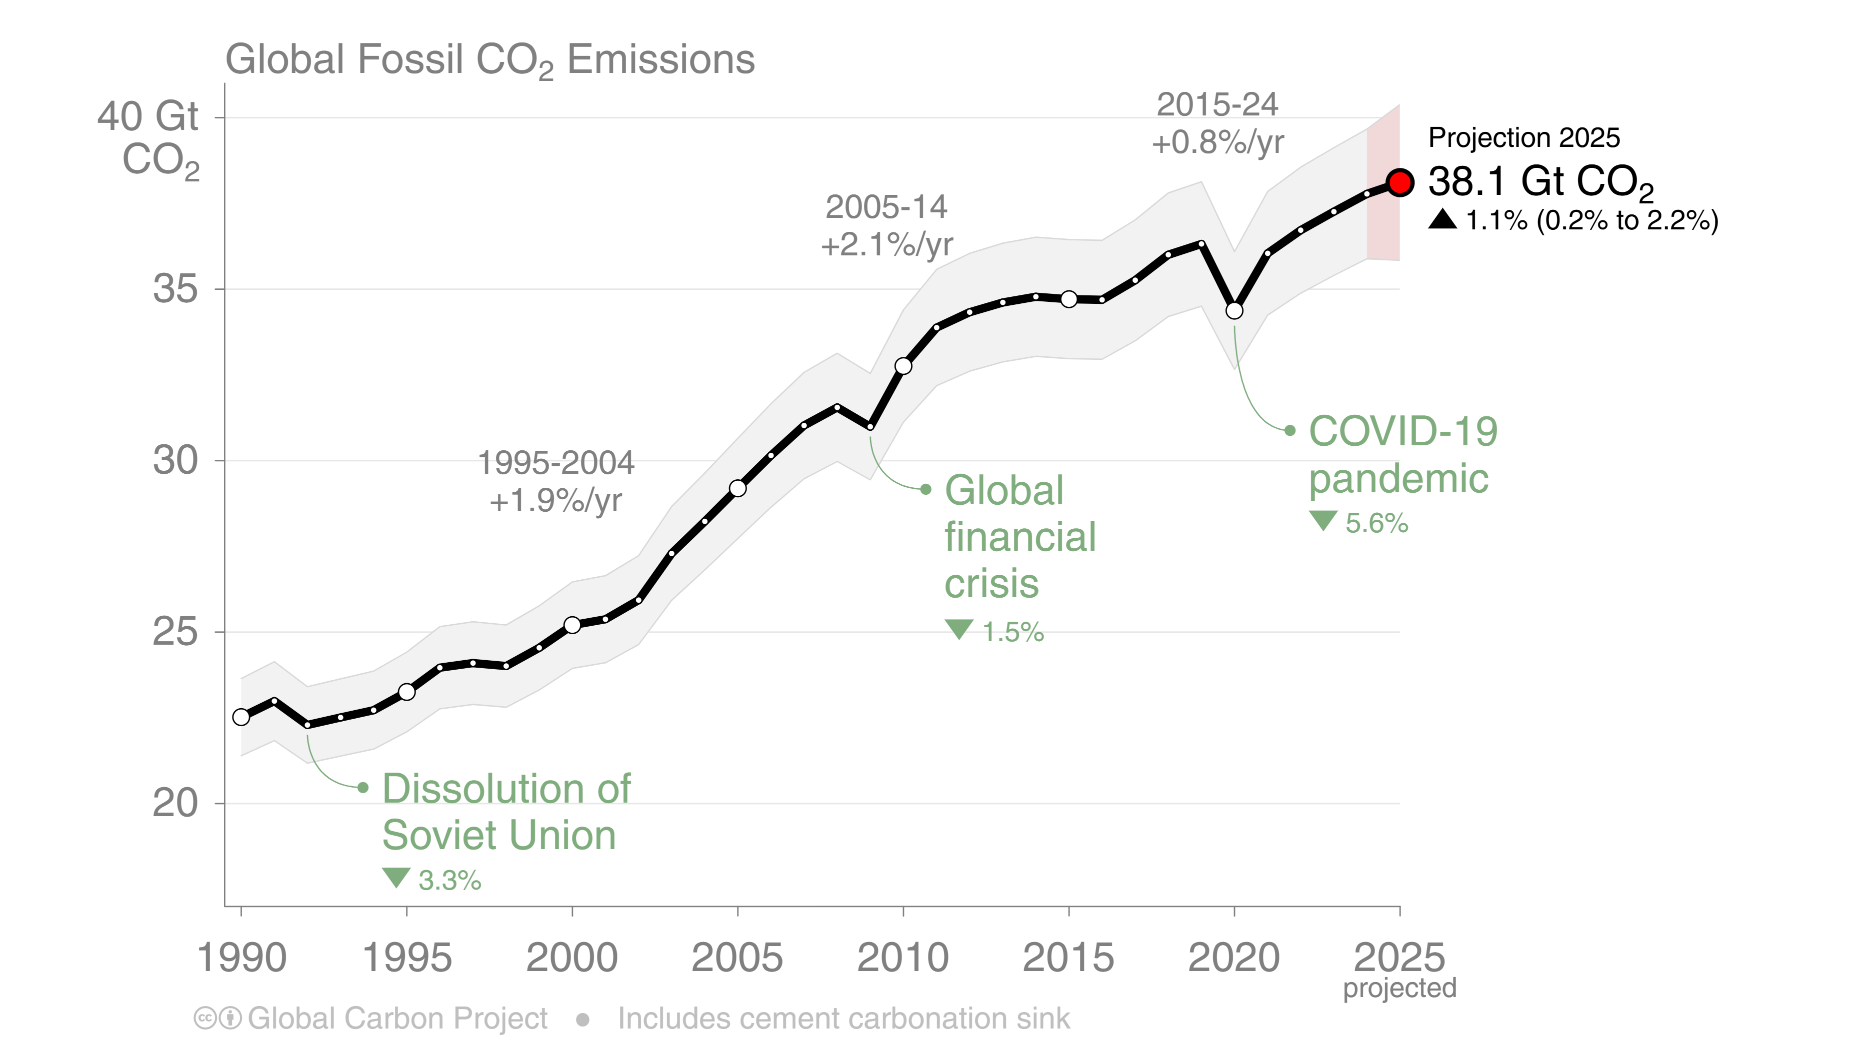
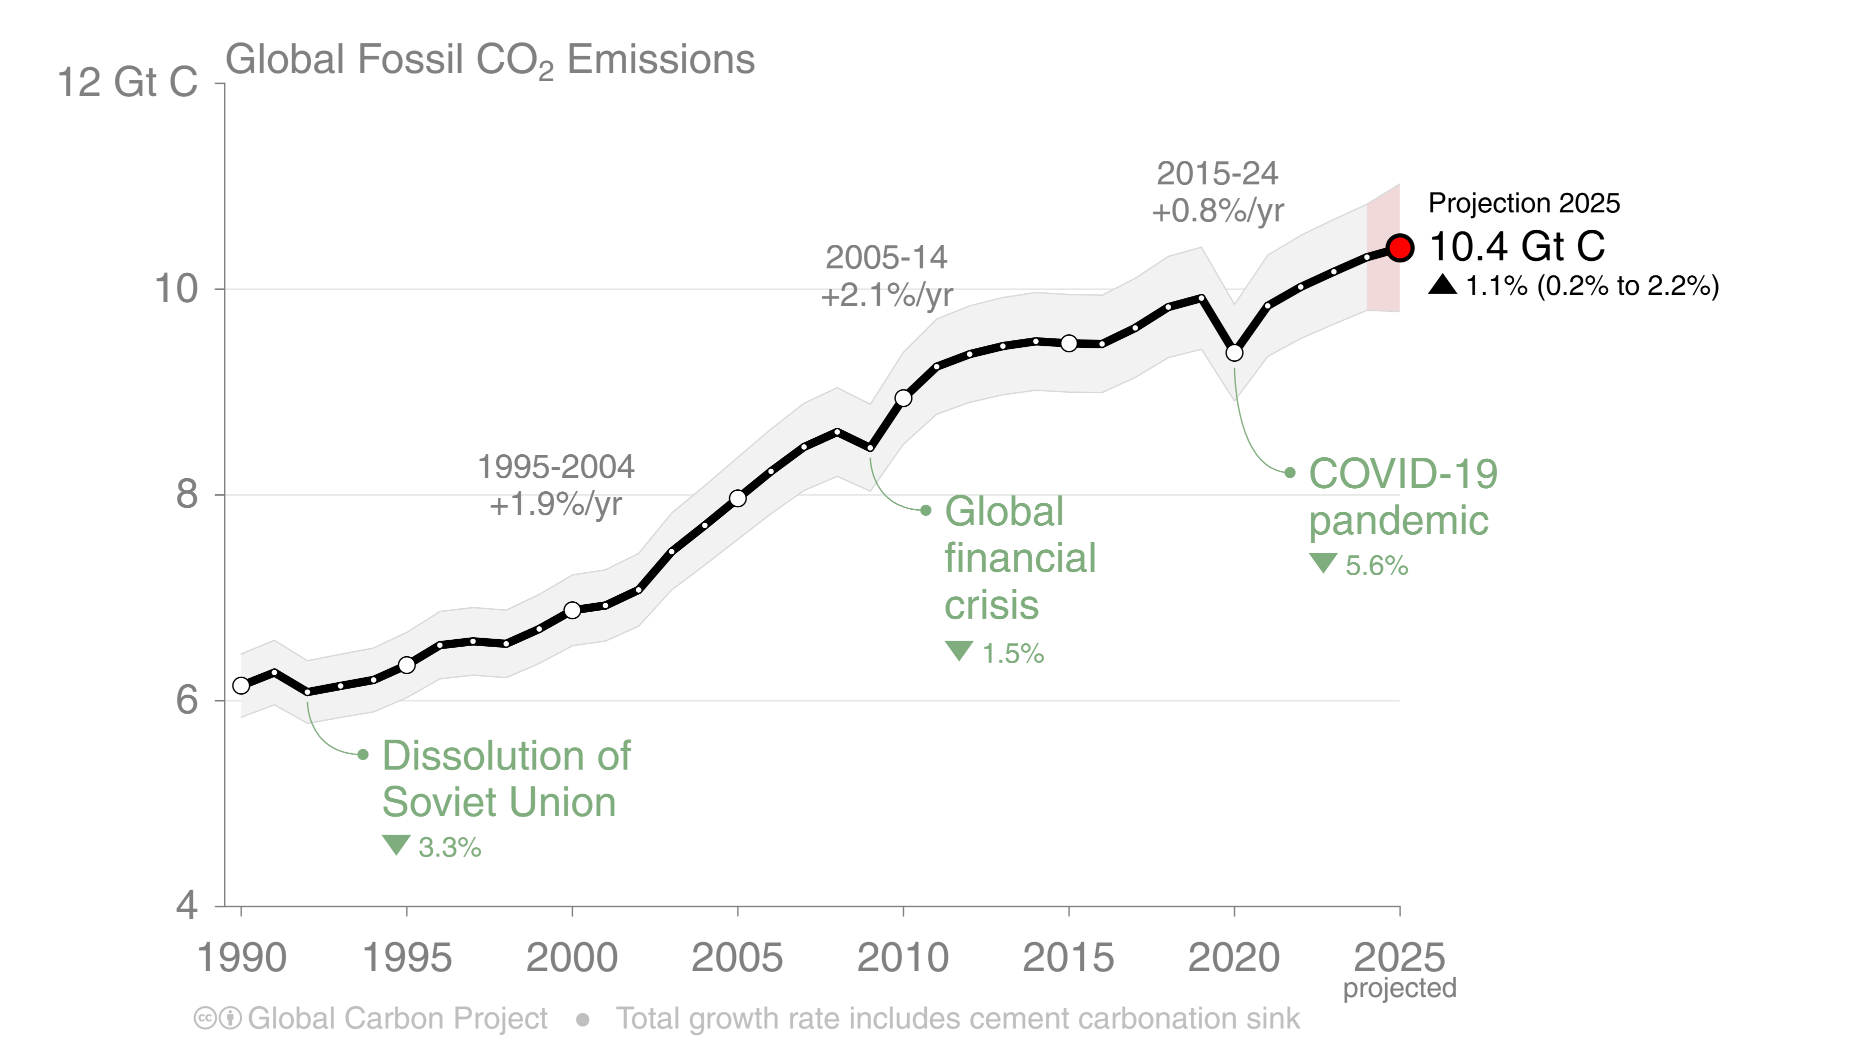
.

diff --git a/GCB2025/GtC/index.html b/GCB2025/GtC/index.html
@@ -8,7 +8,7 @@
     <meta name="twitter:creator" content="@robbie_andrew">
     <meta name="twitter:title" content="Figures from the Global Carbon Budget 2025">
     <meta name="twitter:description" content="The Global Carbon Budget 2025 was released on 13 November 2025. This page presents all of the figures in the Budget's presentation materials, in a variety of formats and often with data files.">
-    <meta name="twitter:image" content="https://robbieandrew.github.io/GCB2025/siteimg/FossilFuel_and_Cement_emissions_1990.png">  
+    <meta name="twitter:image" content="https://robbieandrew.github.io/GCB2025/GtC/siteimg/FossilFuel_and_Cement_emissions_1990.png">  
   <base target="_blank">
   <link rel="stylesheet" href="https://unpkg.com/purecss@2.0.6/build/pure-min.css" integrity="sha384-Uu6IeWbM+gzNVXJcM9XV3SohHtmWE+3VGi496jvgX1jyvDTXfdK+rfZc8C1Aehk5" crossorigin="anonymous">
   <link rel="stylesheet" href="https://unpkg.com/purecss@2.0.6/build/grids-responsive-min.css">
